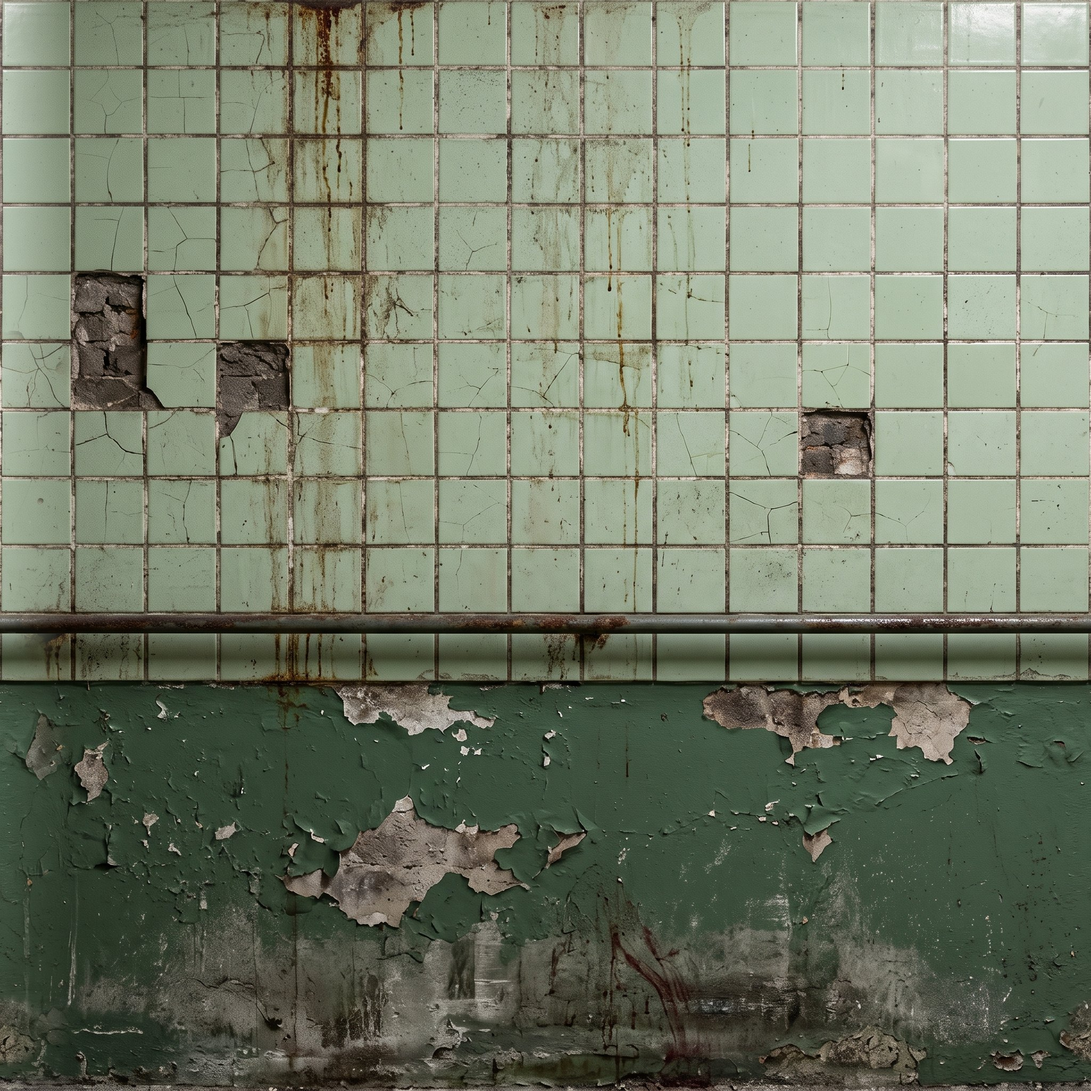
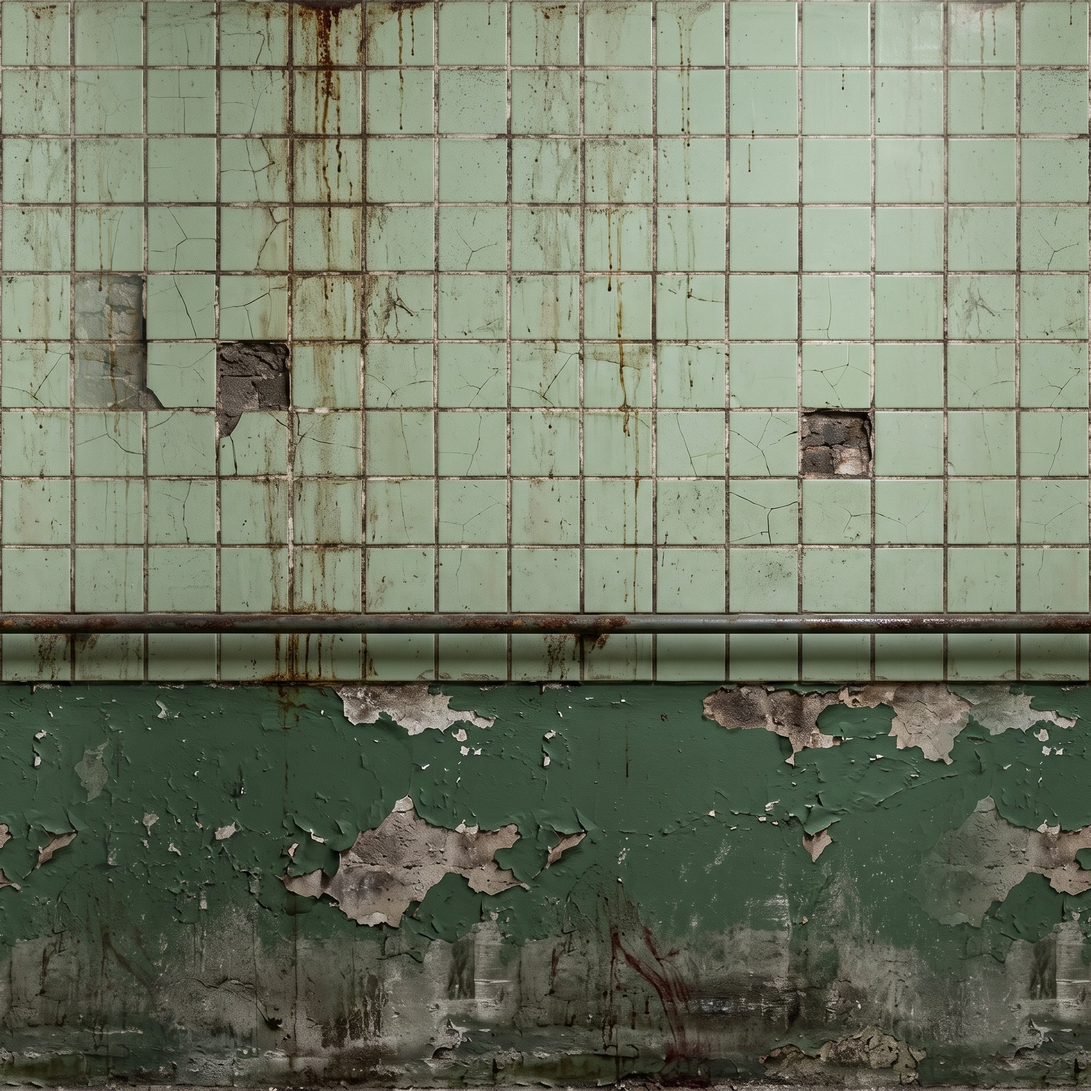
Walls that don't look printed; more atmosphere
- Wall texture made seamless and mapped in world space: no 4 m seams, two tile-aligned
  copies blended so damage never repeats, grime blotches, rust streaks, floor dirt, dark corners
- Glossy glazed tiles (roughness map) so the flashlight glints; matte paint below the rail
- Real 3D steel handrail with brackets along every corridor wall
- Floor grime and wet patches that reflect light
- Dusty light shafts under working lamps; working lamps cast stronger pools of light
- Power surges: every light in the ward stutters with a relay clack and mains buzz

Claude-Session: https://claude.ai/code/session_01QBt8jYmwxFMscb5JxdoCUu

diff --git a/js/main.js b/js/main.js
@@ -626,6 +626,15 @@ const SoundEngine = {
     this.hums.forEach((h) => { if (h) h.nodes.forEach((n) => { try { n.stop(); } catch (e) {} }); });
     this.hums = [];
   },
+  playSurge() {
+    if (!this.ok()) return;
+    const t = this.ctx.currentTime;
+    this.metal(t, { f: 210, decay: 0.25, gain: 0.05, wet: 0.8, muffle: 2500 });
+    this.osc(t + 0.05, 1.5, { type: 'sawtooth', f: 100, f2: 96, bp: 600, bq: 2, gain: 0.05, attack: 0.25, curve: 'lin', wet: 0.7 });
+    this.osc(t + 0.05, 1.5, { type: 'square', f: 50, lp: 200, gain: 0.05, attack: 0.3, curve: 'lin', wet: 0.5 });
+    this.ticks(t + 0.1, 1.3, 9, { f: 3200, q: 2, len: 0.01, gain: 0.06, wet: 0.6 });
+    this.noise(t + 1.45, 0.06, { type: 'highpass', f: 1800, gain: 0.08, wet: 0.9 });
+  },
   // main menu: slow minor string swells over a dark drone, wind, and a far-off low piano note
   menuMus: null,
   startMenuMusic() {
@@ -1102,7 +1111,7 @@ function initThreeScene() {
 
   // A small pool of real lights that follows the nearest working ceiling lamps
   for (let i = 0; i < 4; i++) {
-    const l = new THREE.PointLight(0xd6e6ff, 0, 7, 2);
+    const l = new THREE.PointLight(0xd6e6ff, 0, 9, 2);
     l.userData.lamp = null;
     scene.add(l);
     lampPool.push(l);
@@ -1741,6 +1750,7 @@ function buildRooms(wallMat, trimMat) {
   const DOOR_H = 2.35;
   ROOMS.forEach((rm, ri) => {
     const roomMat = wallMat.clone();
+    patchWallMaterial(roomMat); wallMats.push(roomMat);
     roomMat.color.setHex(rm.tint);
     // walls on every edge that faces a corridor
     for (let c = rm.c0; c <= rm.c1; c++) {
@@ -1927,6 +1937,158 @@ function resetDoors(randomOpen) {
 // 9. LEVEL
 // ==========================================
 let decorReserved = new Set();
+const wallMats = [];
+
+// ---- walls that don't look like a printed photo ----
+// The tile texture is mapped in world space (continuous along a corridor, no 4 m seams), the
+// damage is mixed from two grid-aligned copies so no two stretches look the same, and on top of
+// that: grime blotches, rust/water streaks running down from the ceiling, dirt creeping up from the
+// floor and darkened corners. Tiles get a glossy roughness map so the flashlight glints off them.
+const WALL_GLSL_NOISE = `
+  float wh(vec2 p) { return fract(sin(dot(p, vec2(127.1, 311.7))) * 43758.5453); }
+  float wn(vec2 p) { vec2 i = floor(p), f = fract(p); f = f * f * (3.0 - 2.0 * f);
+    return mix(mix(wh(i), wh(i + vec2(1, 0)), f.x), mix(wh(i + vec2(0, 1)), wh(i + vec2(1, 1)), f.x), f.y); }
+  float wfbm(vec2 p) { return wn(p) * 0.55 + wn(p * 2.1 + 7.3) * 0.3 + wn(p * 4.3 + 1.7) * 0.15; }
+`;
+function patchWallMaterial(mat) {
+  mat.onBeforeCompile = (sh) => {
+    sh.vertexShader = sh.vertexShader
+      .replace('#include <common>', '#include <common>\nvarying vec3 vWPos; varying float vAlong;')
+      .replace('#include <uv_vertex>', `#include <uv_vertex>
+        vec4 wpw = vec4(position, 1.0);
+        #ifdef USE_INSTANCING
+          wpw = instanceMatrix * wpw;
+        #endif
+        wpw = modelMatrix * wpw;
+        vec3 wn0 = normalize(mat3(modelMatrix) * normal);
+        float along = abs(wn0.x) > 0.5 ? wpw.z * sign(wn0.x) : -wpw.x * sign(wn0.z);
+        vAlong = along;
+        vWPos = wpw.xyz;
+        vec2 wuv = vec2(along / ${CELL_SIZE.toFixed(1)}, wpw.y / ${WALL_HEIGHT.toFixed(2)});
+        #ifdef USE_MAP
+          vMapUv = wuv;
+        #endif
+        #ifdef USE_BUMPMAP
+          vBumpMapUv = wuv;
+        #endif
+        #ifdef USE_ROUGHNESSMAP
+          vRoughnessMapUv = wuv;
+        #endif`);
+    sh.fragmentShader = sh.fragmentShader
+      .replace('#include <common>', '#include <common>\nvarying vec3 vWPos; varying float vAlong;' + WALL_GLSL_NOISE)
+      .replace('#include <map_fragment>', `
+        #ifdef USE_MAP
+          // second copy shifted by whole tiles: same grout grid, different cracks/holes/stains
+          float pick = smoothstep(0.35, 0.65, wn(vec2(vAlong * 0.11, 3.7)));
+          float k = floor(wh(vec2(floor(vAlong * 0.11 + 0.5), 1.3)) * 14.0) + 1.0;
+          vec4 tA = texture2D(map, vMapUv);
+          vec4 tB = texture2D(map, vMapUv + vec2(k / 15.0, 0.0));
+          diffuseColor *= mix(tA, tB, pick);
+        #endif
+        {
+          float y = vWPos.y;
+          vec2 q = vec2(vAlong, y);
+          // grime blotches
+          float g = wfbm(q * 0.55 + vec2(vWPos.x * 0.07, 0.0));
+          diffuseColor.rgb *= mix(1.0, 0.5, smoothstep(0.47, 0.82, g));
+          // streaks running down from the ceiling (rust / damp)
+          float col = wn(vec2(vAlong * 6.5, 0.0)) * wn(vec2(vAlong * 1.3, 5.0));
+          float run = wn(vec2(vAlong * 6.5, y * 0.35));
+          float streak = smoothstep(0.32, 0.6, col) * smoothstep(0.35, 0.8, run) * smoothstep(0.6, 2.9, y);
+          diffuseColor.rgb = mix(diffuseColor.rgb, diffuseColor.rgb * vec3(0.55, 0.42, 0.3), streak * 0.75);
+          // dirt and damp creeping up from the floor, soot under the ceiling
+          float floorDirt = 1.0 - smoothstep(0.0, 0.55 + 0.35 * wn(q * vec2(1.5, 0.0) + 2.0), y);
+          diffuseColor.rgb *= mix(1.0, 0.45, floorDirt);
+          diffuseColor.rgb *= mix(1.0, 0.6, smoothstep(${(WALL_HEIGHT - 0.7).toFixed(2)}, ${WALL_HEIGHT.toFixed(2)}, y));
+          // corners: every wall cell edge is a corner or a junction, keep them dark
+          float e = abs(fract(vAlong / ${CELL_SIZE.toFixed(1)}) - 0.5) * 2.0;
+          diffuseColor.rgb *= mix(1.0, 0.72, smoothstep(0.86, 1.0, e));
+        }`);
+  };
+  mat.customProgramCacheKey = () => 'wallWS';
+  mat.needsUpdate = true;
+}
+// gloss on the glazed tiles, matte grout, flat chalky paint below the rail
+function makeWallRoughness(img) {
+  const N = 512, [c, ctx] = canvasOf(N, N);
+  ctx.drawImage(img, 0, 0, N, N);
+  const d = ctx.getImageData(0, 0, N, N), px = d.data;
+  for (let i = 0; i < px.length; i += 4) {
+    const y = (i / 4 / N) | 0;
+    const l = (px[i] * 0.3 + px[i + 1] * 0.59 + px[i + 2] * 0.11) / 255;
+    let r = y < N * 0.58 ? 0.95 - Math.min(1, Math.max(0, (l - 0.42) / 0.3)) * 0.45 : 0.88 - l * 0.15;
+    r = Math.round(Math.max(0.2, Math.min(1, r)) * 255);
+    px[i] = px[i + 1] = px[i + 2] = r;
+  }
+  ctx.putImageData(d, 0, 0);
+  const t = new THREE.CanvasTexture(c);
+  t.wrapS = t.wrapT = THREE.RepeatWrapping;
+  return t;
+}
+
+// the rail painted on the tile texture becomes a real steel rail standing off the wall
+function buildRails() {
+  const RAIL_Y = WALL_HEIGHT * 0.428;
+  const blocked = decorList.filter((d) => d.type === 'fakeDoor').map((d) => [d.x, d.z]);
+  const ex = gridToWorld(EXIT_CELL.r, EXIT_CELL.c);
+  const segs = [];
+  for (let r = 0; r < MAP_SIZE; r++) for (let c = 0; c < MAP_SIZE; c++) {
+    if (gridState[r][c] !== 1 || (r === EXIT_CELL.r && c === EXIT_CELL.c)) continue;
+    const p = gridToWorld(r, c);
+    DIRS.forEach(([dr, dc]) => {
+      const nr = r + dr, nc = c + dc;
+      if (nr < 0 || nc < 0 || nr >= MAP_SIZE || nc >= MAP_SIZE || gridState[nr][nc] !== 0) return;
+      const fx = p.x + dc * (CELL_SIZE / 2 + 0.055), fz = p.z + dr * (CELL_SIZE / 2 + 0.055);
+      if (blocked.some(([x, z]) => Math.hypot(x - fx, z - fz) < 1.6)) return;
+      if (Math.hypot(ex.x - fx, ex.z - fz) < 1) return;
+      segs.push({ x: fx, z: fz, along: dr !== 0 ? 'x' : 'z', bx: p.x + dc * (CELL_SIZE / 2 + 0.02), bz: p.z + dr * (CELL_SIZE / 2 + 0.02) });
+    });
+  }
+  const railMat = new THREE.MeshStandardMaterial({ color: 0x4a443e, roughness: 0.38, metalness: 0.75 });
+  const rail = new THREE.InstancedMesh(new THREE.CylinderGeometry(0.028, 0.028, CELL_SIZE + 0.02, 8), railMat, segs.length);
+  const brk = new THREE.InstancedMesh(new THREE.BoxGeometry(0.03, 0.03, 0.07), railMat, segs.length * 2);
+  const m4 = new THREE.Matrix4(), qx = new THREE.Quaternion().setFromEuler(new THREE.Euler(0, 0, Math.PI / 2)), qz = new THREE.Quaternion().setFromEuler(new THREE.Euler(Math.PI / 2, 0, 0));
+  const one = new THREE.Vector3(1, 1, 1), yaw90 = new THREE.Quaternion().setFromEuler(new THREE.Euler(0, Math.PI / 2, 0)), noRot = new THREE.Quaternion();
+  segs.forEach((sg, i) => {
+    rail.setMatrixAt(i, m4.compose(new THREE.Vector3(sg.x, RAIL_Y, sg.z), sg.along === 'x' ? qx : qz, one));
+    [-1, 1].forEach((k, j) => {
+      const ox = sg.along === 'x' ? k * 1.2 : 0, oz = sg.along === 'z' ? k * 1.2 : 0;
+      brk.setMatrixAt(i * 2 + j, m4.compose(new THREE.Vector3((sg.x + sg.bx) / 2 + ox, RAIL_Y, (sg.z + sg.bz) / 2 + oz), sg.along === 'x' ? noRot : yaw90, one));
+    });
+  });
+  rail.castShadow = true; rail.receiveShadow = true;
+  scene.add(rail, brk);
+}
+
+// a faint cone of dusty light under every lamp that still works
+const shaftMats = {};
+function buildLightShafts() {
+  const geo = new THREE.CylinderGeometry(0.35, 1.5, WALL_HEIGHT - 0.12, 20, 1, true);
+  geo.translate(0, -(WALL_HEIGHT - 0.12) / 2, 0);
+  const mk = (strength) => new THREE.ShaderMaterial({
+    uniforms: { uStr: { value: strength }, fogColor: { value: scene.fog.color }, fogDensity: { value: scene.fog.density } },
+    vertexShader: `varying float vH; varying vec3 vN; varying vec3 vV; varying float vDepth;
+      void main() { vH = -position.y / ${(WALL_HEIGHT - 0.12).toFixed(2)};
+        vec4 mv = modelViewMatrix * vec4(position, 1.0); vN = normalize(normalMatrix * normal); vV = normalize(-mv.xyz); vDepth = -mv.z;
+        gl_Position = projectionMatrix * mv; }`,
+    fragmentShader: `uniform float uStr; uniform vec3 fogColor; uniform float fogDensity;
+      varying float vH; varying vec3 vN; varying vec3 vV; varying float vDepth;
+      void main() { float edge = pow(abs(dot(vN, vV)), 1.6);
+        float a = edge * (1.0 - vH) * (1.0 - vH) * uStr * smoothstep(0.0, 1.2, vDepth);
+        float fog = exp(-fogDensity * fogDensity * vDepth * vDepth);
+        gl_FragColor = vec4(vec3(0.85, 0.92, 1.0) * a * fog, 1.0); }`,
+    transparent: true, depthWrite: false, blending: THREE.AdditiveBlending, side: THREE.DoubleSide,
+  });
+  shaftMats.on = mk(0.11); shaftMats.flicker = mk(0.11);
+  lampList.forEach((l) => {
+    if (l.type === 'dead') return;
+    const m = new THREE.Mesh(geo, shaftMats[l.type]);
+    m.position.set(l.x, WALL_HEIGHT - 0.1, l.z);
+    m.renderOrder = 2;
+    scene.add(m);
+  });
+  shaftMats.geo = geo;
+}
 
 function buildLevelGeometry() {
   gridState = makeGridState();
@@ -1950,9 +2112,29 @@ function buildLevelGeometry() {
   const floorTex = loadTex('assets/tex/floor.jpg', MAP_SIZE, MAP_SIZE, createFloorTexture);
   const ceilTex = loadTex('assets/tex/ceil.jpg', MAP_SIZE * 2, MAP_SIZE * 2, createCeilingTexture);
 
-  const wallMat = new THREE.MeshStandardMaterial({ color: 0xb4b4b4, map: wallTex, bumpMap: wallTex, bumpScale: 0.6, roughness: 0.78, metalness: 0.02 });
+  const wallMat = new THREE.MeshStandardMaterial({ color: 0xb4b4b4, map: wallTex, bumpMap: wallTex, bumpScale: 0.9, roughness: 0.78, metalness: 0.02 });
+  patchWallMaterial(wallMat);
+  const applyRough = () => {
+    if (!wallTex.image || !wallTex.image.width) return;
+    wallMat.roughnessMap = makeWallRoughness(wallTex.image); wallMat.roughness = 1; wallMat.needsUpdate = true;
+    wallMats.forEach((m) => { m.roughnessMap = wallMat.roughnessMap; m.roughness = 1; m.needsUpdate = true; });
+  };
+  (function waitWallTex() { if (wallTex.image && wallTex.image.width) applyRough(); else setTimeout(waitWallTex, 200); })();
   const floorMat = new THREE.MeshStandardMaterial({ color: 0xa6a6a6, map: floorTex, bumpMap: floorTex, bumpScale: 0.35, roughness: 0.42, metalness: 0.06 });
   const ceilMat = new THREE.MeshStandardMaterial({ color: 0x8c8c8c, map: ceilTex, roughness: 0.95 });
+  floorMat.onBeforeCompile = (sh) => {
+    sh.vertexShader = sh.vertexShader.replace('#include <common>', '#include <common>\nvarying vec2 vFW;')
+      .replace('#include <worldpos_vertex>', '#include <worldpos_vertex>\nvFW = (modelMatrix * vec4(transformed, 1.0)).xz;');
+    sh.fragmentShader = sh.fragmentShader.replace('#include <common>', '#include <common>\nvarying vec2 vFW;' + WALL_GLSL_NOISE)
+      .replace('#include <map_fragment>', `#include <map_fragment>
+        float fg = wfbm(vFW * 0.35);
+        diffuseColor.rgb *= mix(1.0, 0.55, smoothstep(0.5, 0.82, fg));
+        float wet = smoothstep(0.62, 0.7, wfbm(vFW * 0.22 + 11.0));
+        diffuseColor.rgb *= mix(1.0, 0.7, wet);`)
+      .replace('#include <roughnessmap_fragment>', `#include <roughnessmap_fragment>
+        roughnessFactor = mix(roughnessFactor, 0.06, smoothstep(0.62, 0.7, wfbm(vFW * 0.22 + 11.0)));`);
+  };
+  floorMat.customProgramCacheKey = () => 'floorWS';
   const trimMat = new THREE.MeshStandardMaterial({ color: 0x15181a, roughness: 0.55, metalness: 0.4 });
   const pipeMat = new THREE.MeshStandardMaterial({ color: 0x3b2f27, roughness: 0.45, metalness: 0.6 });
 
@@ -2136,6 +2318,8 @@ function buildLevelGeometry() {
 
   buildRooms(wallMat, trimMat);
   decorReserved = buildDecor();
+  buildRails();
+  buildLightShafts();
   buildItemPool();
   buildMonsterMesh();
 }
@@ -2490,6 +2674,7 @@ function lightNearbyLamps(x, z) {
     l.type = 'on';
     const m = box(1.15, 0.04, 0.09, lampMats.on, l.x, lampTubeY - 0.005, l.z);
     scene.add(m); lampOverlays.push(m);
+    if (shaftMats.geo) { const sh = new THREE.Mesh(shaftMats.geo, shaftMats.on); sh.position.set(l.x, WALL_HEIGHT - 0.1, l.z); sh.renderOrder = 2; scene.add(sh); lampOverlays.push(sh); }
   });
   lampPoolTimer = 0;
 }
@@ -3180,7 +3365,7 @@ function updateLampPool(dt) {
   lampPool.forEach((l) => {
     const lamp = l.userData.lamp;
     if (!lamp) { l.intensity = 0; return; }
-    l.intensity = lamp.type === 'flicker' ? lampMats.flicker.emissiveIntensity * 1.6 : lamp.type === 'dead' ? 1.8 : 2.4;
+    l.intensity = (lamp.type === 'flicker' ? lampMats.flicker.emissiveIntensity * 3.2 : lamp.type === 'dead' ? 3.2 : 5.2) * (lamp.type === 'flicker' ? 1 : gameState.lampSurge ?? 1);
   });
 }
 
@@ -3394,6 +3579,20 @@ function renderLoop(now) {
   if (lampMats) {
     const f = Math.random();
     lampMats.flicker.emissiveIntensity = f < 0.08 ? 0 : f < 0.12 ? 0.4 : 1.4 + Math.sin(now * 0.05) * 0.2;
+    // power surge: every light in the ward stutters for a moment
+    let surge = 1;
+    if (gameState.running && !gameState.paused) {
+      gameState.surgeT = (gameState.surgeT === undefined ? 50 : gameState.surgeT) - dt;
+      if (gameState.surgeT < 0) {
+        if (gameState.surgeT > -dt * 1.5) SoundEngine.playSurge();
+        surge = Math.random() < 0.45 ? 0.05 : 0.5 + Math.random() * 0.6;
+        if (gameState.surgeT < -1.6) gameState.surgeT = 45 + Math.random() * 50;
+      }
+    }
+    lampMats.on.emissiveIntensity = 1.6 * surge;
+    lampMats.flicker.emissiveIntensity *= surge;
+    gameState.lampSurge = surge;
+    if (shaftMats.on) { shaftMats.on.uniforms.uStr.value = 0.11 * surge; shaftMats.flicker.uniforms.uStr.value = 0.11 * surge * lampMats.flicker.emissiveIntensity / 1.5; }
     updateLampPool(dt);
   }
   if (frameN % 2 === 0 && settings.fx !== 'off') drawGrain(gctx, gimg);
@@ -3885,5 +4084,5 @@ loadAssets((p) => {
 });
 
 // debug hooks (used by automated tests)
-window.__ward = { SoundEngine, attemptGeneratorGaugeHit, openGeneratorGauge, enterLocker, exitLocker, lockerObjects, get hideAnim() { return hideAnim; }, decorList, doors, ROOMS, roomPoint, setDoor, goToMenu, gameState, player, monster, generatorObjects, lockerObjects, items, get keycardObj() { return keycardObj; }, handleInteract, startNewGame, triggerGameOver,
+window.__ward = { lampList, lampPool, isOpen, worldToGrid, SoundEngine, attemptGeneratorGaugeHit, openGeneratorGauge, enterLocker, exitLocker, lockerObjects, get hideAnim() { return hideAnim; }, decorList, doors, ROOMS, roomPoint, setDoor, goToMenu, gameState, player, monster, generatorObjects, lockerObjects, items, get keycardObj() { return keycardObj; }, handleInteract, startNewGame, triggerGameOver,
   gridToWorld, input, applyCamera, updateGame, throwBottle, toggleFlashlight, toggleCrouch, openNote, closeNote, setPaused };
